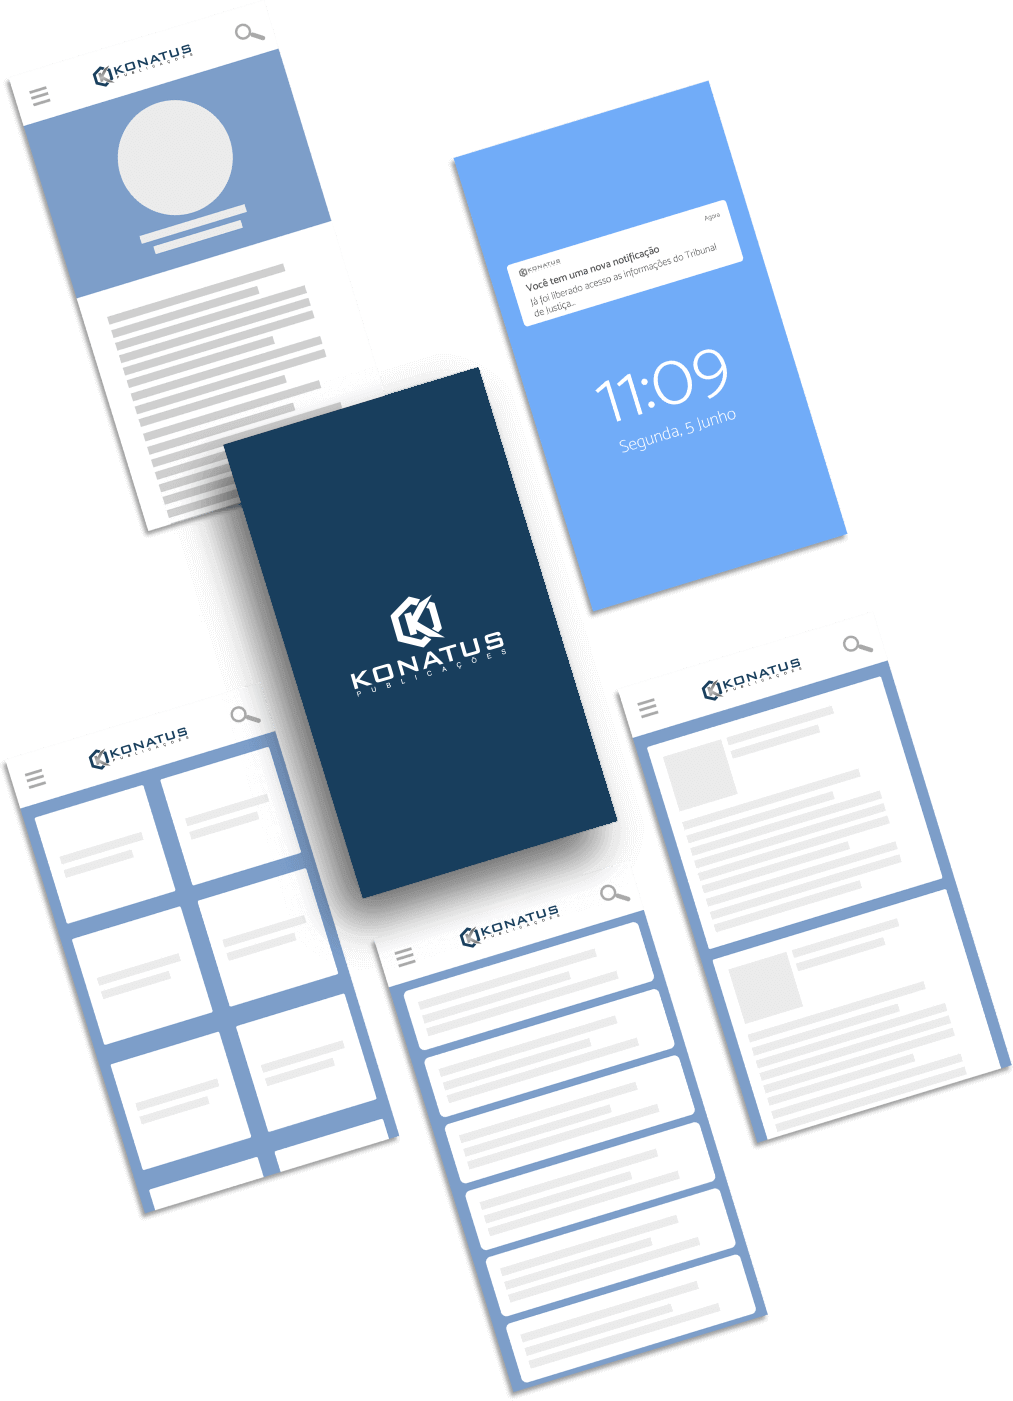
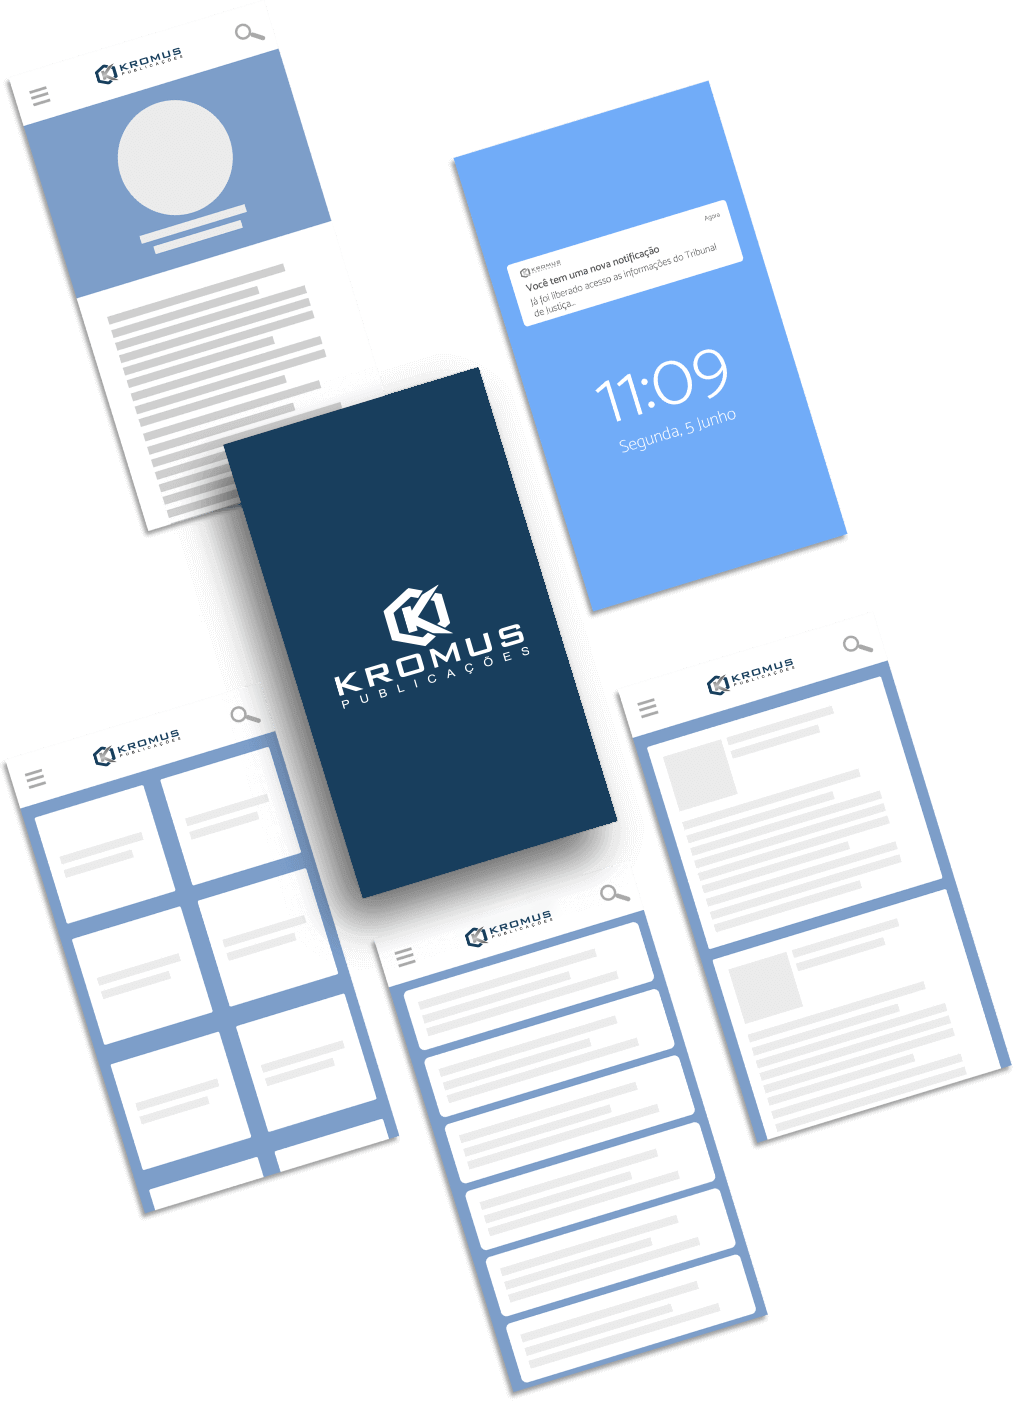
Updates

diff --git a/index.html b/index.html
@@ -5,20 +5,20 @@
     <meta charset="UTF-8">
     <meta name="viewport" content="width=device-width, initial-scale=1.0">
     <meta http-equiv="X-UA-Compatible" content="ie=edge">
-    <title>Aplicativo Konatus - Publicações</title>
+    <title>Aplicativo KROMUS - Publicações</title>
     <link rel="stylesheet" href="https://fonts.googleapis.com/css?family=Roboto:300,500">
     <link rel="stylesheet" href="https://use.fontawesome.com/releases/v5.2.0/css/all.css" integrity="sha384-hWVjflwFxL6sNzntih27bfxkr27PmbbK/iSvJ+a4+0owXq79v+lsFkW54bOGbiDQ"
         crossorigin="anonymous">
     <link rel="stylesheet" href="./dist/main.css">
 </head>
 
-<body data-hijacking="off" data-animation="fixed">
+<body data-hijacking="off" data-animation="off">
     <header class="header header-top">
         <div class="container">
             <div class="row d-flex justify-content-center justify-content-md-between">
                 <div class="col logo">
-                    <a href="/" title="Konatus - Publicações">
-                        <img src="./dist/svg/logo-white-h.svg" alt="Konatus - Publicações">
+                    <a href="/" title="KROMUS - Publicações de Bolso">
+                        <img src="./dist/svg/logo-white-h.svg" alt="KROMUS - Publicações de Bolso">
                     </a>
                 </div>
                 <a href="#" class="fas fa-ellipsis-v menu-toggle"></a>
@@ -56,13 +56,13 @@
                         <div class="col content d-flex align-items-center justify-content-between">
                             <div class="content-text">
                                 <h1 class="title">Advogado, leve suas intimações no bolso!</h1>
-                                <p class="text">O Konatus Publicações de Bolso, se conecta aos  <br>
+                                <p class="text">O KROMUS Publicações de Bolso, se conecta aos  <br>
                                     tribunais e diários de justiça de todo o país para  <br>
                                     buscar, organizar e acompanhar todas as <br>
                                     informações que você precisa a respeito de seus prazos e intimações.
                                 
                                 </p>
-                                <a href="javascript:;" data-navigate="about" class="btn">Conheça o Konatus</a>
+                                <a href="javascript:;" data-navigate="about" class="btn">Conheça o KROMUS</a>
                             </div>
                             <div class="image">
                                 <img src="./dist/images/phone1.png" alt="">
@@ -289,9 +289,9 @@
                         <div class="col">
                             <div class="d-flex align-items-center justify-content-center">
                                 <div class="content-text">
-                                    <img src="./dist/svg/logo-color.svg" alt="Konatus - Publicações">
+                                    <img src="./dist/svg/logo-color.svg" alt="KROMUS - Publicações de Bolso">
                                     <div class="text">
-                                        <p>contato@konatus.com.br</p>
+                                        <p>contato@kromus.com.br</p>
                                         <p>67 3444-9999</p>
                                     </div>
                                 </div>
